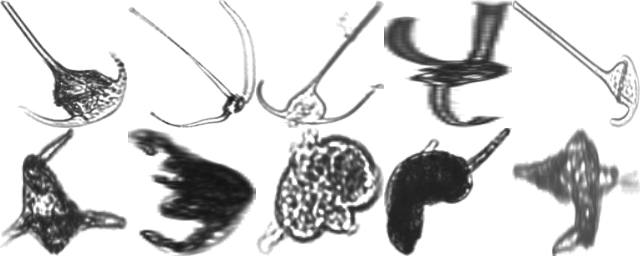
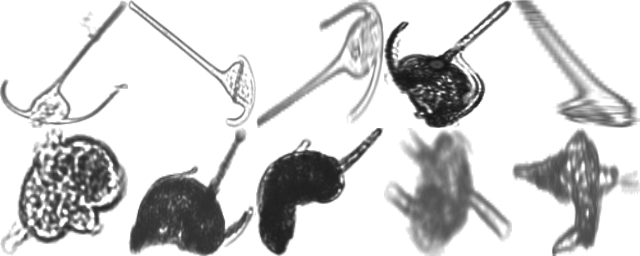
closest and furthest images

diff --git a/dimensionality_reduction.py b/dimensionality_reduction.py
@@ -25,7 +25,7 @@ if __name__ == "__main__":
     df_unseen = pd.read_pickle("embeddings_unseen.pkl")
     
     # Randomly subsample images
-    number_of_samples = 1500
+    number_of_samples = 2500
     df_test = sample_df(df_test, number_of_samples)
     df_train = sample_df(df_train, number_of_samples)
     df_unseen = sample_df(df_unseen, number_of_samples)

diff --git a/README.md b/README.md
@@ -141,18 +141,18 @@ For the average angular distances, we observe the same thing as above: the class
 To obtain the plots in this task, run `dimensionality_reduction.py`.
 
 ### Dimensionality reduction via UMAP
-First, we randomly sample 1500 images from each of the datasets (train data, test data and unseen classes). Then we compute the embeddings of these 4500 points and fit UMAP on them reducing the dimensions from 128 to 2. At last, we plot the output from UMAP for each of the datasets and save the plot to `umap_embeddings.png`. Dimensionality reduction using t-SNE was also tested but was slower and did not give a noticeable better separation. Two dimension was choosen because it is easy to visualise in scatter plots.
+First, we randomly sample some of the images (~2000) from each of the datasets (train data, test data and unseen classes). Then we compute the embeddings of these points and fit UMAP on them reducing the dimensions from 128 to 2. At last, we plot the output from UMAP for each of the datasets and save the plot to `umap_embeddings.png`. Dimensionality reduction using t-SNE was also tested but was slower and did not give a noticeable better separation. Two dimension was choosen because it is easy to visualise in scatter plots.
 
 ![UMAP of embeddings](umap_embeddings.png)
 
 We see that the classes the classifier is trained on are well-separated even in 2 dimensions after applying UMAP. This holds true for both the test data and the training data. There seems to be some slight confusion in the test data between *Codonellopsis* and a few other classes. For the unseen classes, we observe some separation, but also some overlap. Especially the third unseen class *Chaetoceros*, overlap with both other unseen classes.
 
 ### Close and far-away samples
-We compute the center for each class and show the 5 closest images and the 5 furthest away images with respect to the Euclidean distance to their class center.
+We compute the center for each class and show the 5 closest images and the 5 furthest away images with respect to the Euclidean distance to their class center. The top and bottom row are the closest and furthest away images, respectively.
+
 ![Closest and furthest away samples in class 0](closest_and_furthest_images_class_0.png)
 ![Closest and furthest away samples in class 1](closest_and_furthest_images_class_1.png)
 ![Closest and furthest away samples in class 2](closest_and_furthest_images_class_2.png)
 ![Closest and furthest away samples in class 3](closest_and_furthest_images_class_3.png)
 ![Closest and furthest away samples in class 4](closest_and_furthest_images_class_4.png)
 ![Closest and furthest away samples in class 5](closest_and_furthest_images_class_5.png)
-(The top and bottom row are the closest and furthest away images, respectively.)
